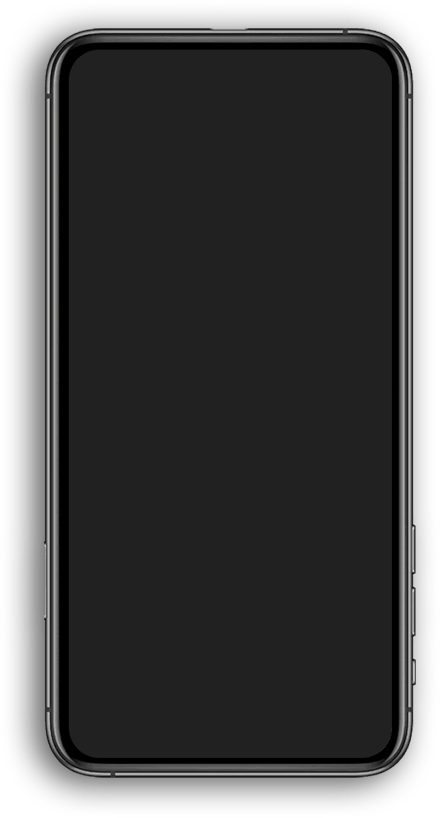
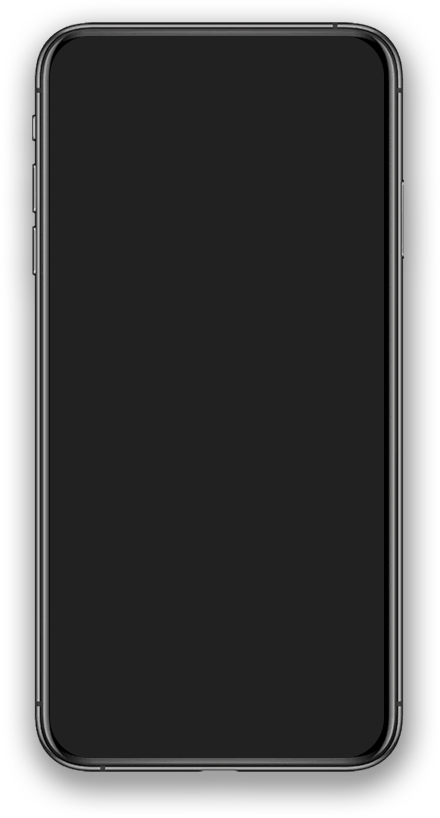
Converted HeaderMain to FC. Rotated iphone.

Changed region(s): [[0.0591, 0.0, 0.9455, 0.978]]

diff --git a/frontend/src/components/home-page/HeaderMain.tsx b/frontend/src/components/home-page/HeaderMain.tsx
@@ -1,47 +1,36 @@
-import React from "react";
+import React, { useState, useEffect, useCallback } from "react";
 
 import NavBar from "components/layout/NavBar";
 import headerLogo from "images/main-header/bb_gradient.png";
 import caret from "images/main-header/caret.png";
 import styles from "components/layout/Header.module.scss";
 
-interface HeaderMainState {
-  height: number;
-  caretAnimationStyle: string;
-}
-
-export default class HeaderMain extends React.Component<{}, HeaderMainState> {
-  static MARGIN_TOP = 26;
-
-  scrolled = false;
-  animationFrame: number = 0;
-
-  constructor(props: {}) {
-    super(props);
-    this.state = {
-      height: this.getHeight(),
-      caretAnimationStyle: "",
-    };
-  }
-
-  getHeight = () => {
+const HeaderMain: React.FC = () => {
+  // Ensure `getHeight` is defined before being used in `useState`
+  const getHeight = () => {
     return Math.max(window.innerHeight, 500);
   };
 
-  stopCaret() {
-    if (!this.scrolled) {
-      this.setState({ caretAnimationStyle: "none" });
-      this.scrolled = true;
-    }
-  }
+  const [height, setHeight] = useState(getHeight); // Reference the defined `getHeight`
+  const [caretAnimationStyle, setCaretAnimationStyle] = useState("");
+  const [scrolled, setScrolled] = useState(false);
 
-  scrollDown = () => {
-    this.stopCaret();
-    const targetY = this.getHeight() - NavBar.HEIGHT + 3;
-    this.smoothScrollTo(targetY, 500);
+  let animationFrame = 0;
+
+  const stopCaret = useCallback(() => {
+    if (!scrolled) {
+      setCaretAnimationStyle("none");
+      setScrolled(true);
+    }
+  }, [scrolled]);
+
+  const scrollDown = () => {
+    stopCaret();
+    const targetY = getHeight() - NavBar.HEIGHT + 3;
+    smoothScrollTo(targetY, 500);
   };
 
-  smoothScrollTo = (targetY: number, duration: number) => {
+  const smoothScrollTo = (targetY: number, duration: number) => {
     const startY = window.scrollY;
     const distance = targetY - startY;
     const startTime = performance.now();
@@ -50,80 +39,84 @@ export default class HeaderMain extends React.Component<{}, HeaderMainState> {
       const elapsed = currentTime - startTime;
       const progress = Math.min(elapsed / duration, 1);
 
-      // Pure ease-out formula
       const easeOut = 1 - Math.pow(1 - progress, 3); // Cubic ease-out
 
       window.scrollTo(0, startY + distance * easeOut);
 
       if (progress < 1) {
-        this.animationFrame = requestAnimationFrame(scrollAnimation);
+        animationFrame = requestAnimationFrame(scrollAnimation);
       }
     };
 
-    this.animationFrame = requestAnimationFrame(scrollAnimation);
+    animationFrame = requestAnimationFrame(scrollAnimation);
   };
 
-  handleResize = () => {
+  const handleResize = useCallback(() => {
     setTimeout(() => {
-      this.setState({ height: this.getHeight() });
+      setHeight(getHeight());
     }, 0);
-  };
+  }, []);
 
-  handleScroll = () => {
-    this.stopCaret();
-  };
+  const handleScroll = useCallback(() => {
+    stopCaret();
+  }, [stopCaret]);
 
-  componentDidMount() {
-    window.addEventListener("scroll", this.handleScroll);
-  }
+  useEffect(() => {
+    window.addEventListener("scroll", handleScroll);
+    window.addEventListener("resize", handleResize);
 
-  componentWillUnmount() {
-    window.removeEventListener("scroll", this.handleScroll);
-    cancelAnimationFrame(this.animationFrame);
-  }
+    return () => {
+      window.removeEventListener("scroll", handleScroll);
+      window.removeEventListener("resize", handleResize);
+      cancelAnimationFrame(animationFrame);
+    };
+  }, [handleScroll, handleResize]);
 
-  render() {
-    return (
-      <header
-        className={`${styles["header_main"]} ${styles["header"]}`}
-        style={{
-          minHeight: this.state.height + "px",
-        }}
+  return (
+    <header
+      className={`${styles["header_main"]} ${styles["header"]}`}
+      style={{ minHeight: height + "px" }}
+    >
+      <div className={styles["overhead-fill"]}></div>
+
+      <img src={headerLogo} className={styles["header-logo"]} alt="BB Logo" />
+      <h1>
+        <span className={styles["first-name"]}>Bradley</span>&nbsp;
+        <span className={styles["last-name"]}>Baysinger</span>
+      </h1>
+
+      <h5 className={styles["subhead"]}>
+        <span style={{ lineHeight: "26px" }}>
+          Interactive&nbsp;Web &bull;
+          <span className={styles["nobr"]}>Front-end Developer</span>
+        </span>
+      </h5>
+
+      <div
+        className={styles["view-portfolio"]}
+        style={{ animation: caretAnimationStyle }}
       >
-        <div className={styles["overhead-fill"]}></div>
-
-        <img src={headerLogo} className={styles["header-logo"]} alt="BB Logo" />
-        <h1>
-          <span className={styles["first-name"]}>Bradley</span>&nbsp;
-          <span className={styles["last-name"]}>Baysinger</span>
-        </h1>
-
-        <h5 className={styles["subhead"]}>
-          <span style={{ lineHeight: "26px" }}>
-            Interactive&nbsp;Web &bull;
-            <span className={styles["nobr"]}>Front-end Developer</span>
-          </span>
-        </h5>
-
-        <div
-          className={styles["view-portfolio"]}
-          style={{ animation: this.state.caretAnimationStyle }}
-        >
-          <div>
-            <a href="#list">
-              <h6>View Portfolio</h6>
-              <img
-                src={caret}
-                width="50"
-                height="30"
-                className={styles["caret-img"]}
-                alt=""
-              />
-            </a>
-          </div>
+        <div>
+          <a
+            href="#list"
+            onClick={(e) => {
+              e.preventDefault();
+              scrollDown();
+            }}
+          >
+            <h6>View Portfolio</h6>
+            <img
+              src={caret}
+              width="50"
+              height="30"
+              className={styles["caret-img"]}
+              alt=""
+            />
+          </a>
         </div>
-        {/* <div id="top"></div> */}
-      </header>
-    );
-  }
-}
+      </div>
+    </header>
+  );
+};
+
+export default HeaderMain;
